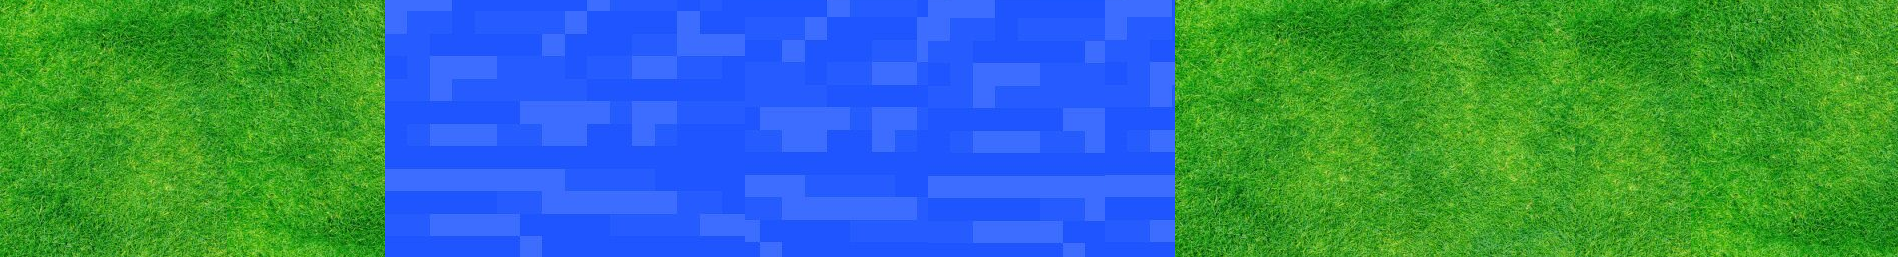
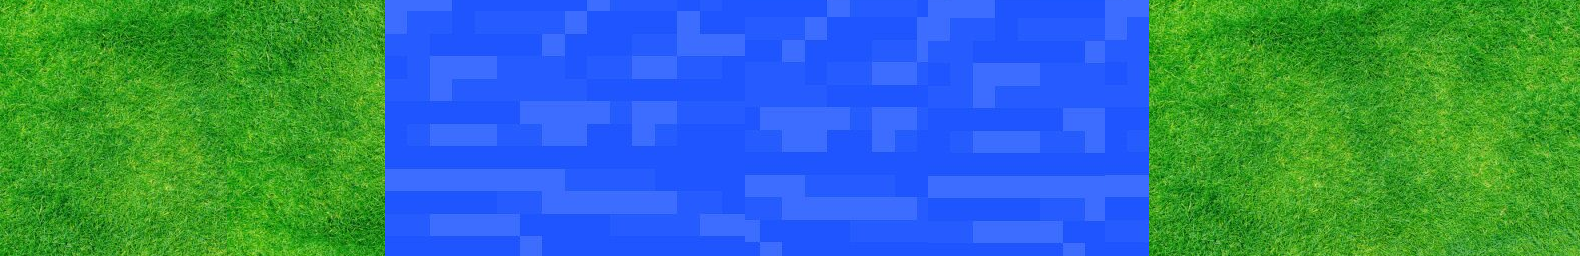
funcao para escutar o clique dois botoes implementado

diff --git a/travessia.js b/travessia.js
@@ -1,6 +1,10 @@
-let start = document.querySelector(".telaInicial");
-let vitoria = document.querySelector(".vitoria");
-let derrota = document.querySelector(".derrota");
+let telaInicial = document.querySelector("#telaInicial");
+let vitoria = document.querySelector("#vitoria");
+let derrota = document.querySelector("#derrota");
+
+let Esqr = document.querySelector(".Esqr");
+let Rio = document.querySelector(".Rio");
+let Dir = document.querySelector(".Dir");
 
 let ovelha = document.querySelector("#ovelha");
 let lobo = document.querySelector("#lobo");
@@ -8,6 +12,8 @@ let alface = document.querySelector("#alface");
 
 let farmer = document.querySelector("#farmer");
 let boat = document.querySelector("#boat");
+
+const botao = document.querySelector(".botao");
 
 vitoria.style.display = "none";
 derrota.style.display = "none";
@@ -18,3 +24,32 @@ alface.style.display = "none";
 
 farmer.style.display = "none";
 boat.style.display = "none";
+
+botao.addEventListener("click", chamafuncao);
+
+function chamafuncao(e) {
+  if (telaInicial.style.display == "") {
+    telaInicial.style.display = "none";
+    ovelha.style.display = "";
+    lobo.style.display = "";
+    alface.style.display = "";
+    farmer.style.display = "";
+    boat.style.display = "";
+
+    return 0;
+  }
+
+  reinicia();
+}
+
+function reinicia() {
+  leftSide.appendChild(ovelha);
+  leftSide.appendChild(lobo);
+  leftSide.appendChild(alface);
+  ovelha.style.position = "static";
+  lobo.style.position = "static";
+  alface.style.position = "static";
+
+  vitoria.style.display = "none";
+  derrota.style.display = "none";
+}

diff --git a/index.html b/index.html
@@ -10,7 +10,7 @@
   </head>
   <body>
     <div class="fundo">
-      <div class="telaInicial">
+      <div class="container" id="telaInicial">
         <h1>Bem vindo ao Jogo da travessia</h1>
         <dl>
           <dt>Instruções:</dt>
@@ -23,15 +23,15 @@
             ficar sozinha com a alface.
           </dd>
         </dl>
-        <button>COMEÇAR!</button>
+        <button class="botao">COMEÇAR!</button>
       </div>
-      <div class="derrota">
+      <div class="container" id="derrota">
         <h1>Que Pena você perdeu :(</h1>
-        <button>Tentar Novamente !</button>
+        <button class="botao">Tentar Novamente !</button>
       </div>
-      <div class="vitoria">
+      <div class="container" id="vitoria">
         <h1>Parabéns você conseguiu!!</h1>
-        <button>Reiniciar</button>
+        <button class="botao">Reiniciar</button>
       </div>
       <div class="Esqr">
         <img class="animal" id="ovelha" src="./imgs/ovelha.png" alt="ovelha" />
@@ -39,10 +39,8 @@
         <img class="animal" id="alface" src="./imgs/lettuce.png" alt="ovelha" />
       </div>
       <div class="Rio">
-        <div class="divBoat">
-          <img class="travessia" id="boat" src="./imgs/boat.png" alt="" />
-          <img class="travessia" id="farmer" src="./imgs/farmer.png" alt="" />
-        </div>
+        <img class="travessia" id="boat" src="./imgs/boat.png" alt="" />
+        <img class="travessia" id="farmer" src="./imgs/farmer.png" alt="" />
       </div>
       <div class="Dir"></div>
     </div>

diff --git a/style.css b/style.css
@@ -26,8 +26,7 @@ button {
   justify-content: center;
 }
 
-.telaInicial {
-  margin-left: 25px;
+.container {
   position: absolute;
   padding: 2%;
   display: flex;
@@ -57,7 +56,7 @@ button {
 
 .Dir {
   height: 100vh;
-  width: 360px;
+  width: 387px;
   position: fixed;
   z-index: 1;
   top: 0;
@@ -68,16 +67,16 @@ button {
   align-items: flex-start;
   justify-content: center;
   flex-direction: column;
+
 }
 
 .Rio {
   height: 100vh;
-  width: 750px;
-  padding-left: 66px;
+  width: 760px;
   display: flex;
-  align-items: flex-start;
-  justify-content: center;
-  flex-direction: column;
+  align-items: center;
+  justify-content: flex-start;
+  flex-direction: row;
 }
 
 .animal {
@@ -85,6 +84,7 @@ button {
   max-height: 150px;
   width: auto;
   height: auto;
+  margin-right: 20px;
 }
 
 #alface {
@@ -108,6 +108,6 @@ button {
   display: flex;
   height: 225px;
   padding-left: 100px;
-  padding-bottom: 100px;
+  padding-bottom: 150px;
   margin: auto;
 }
